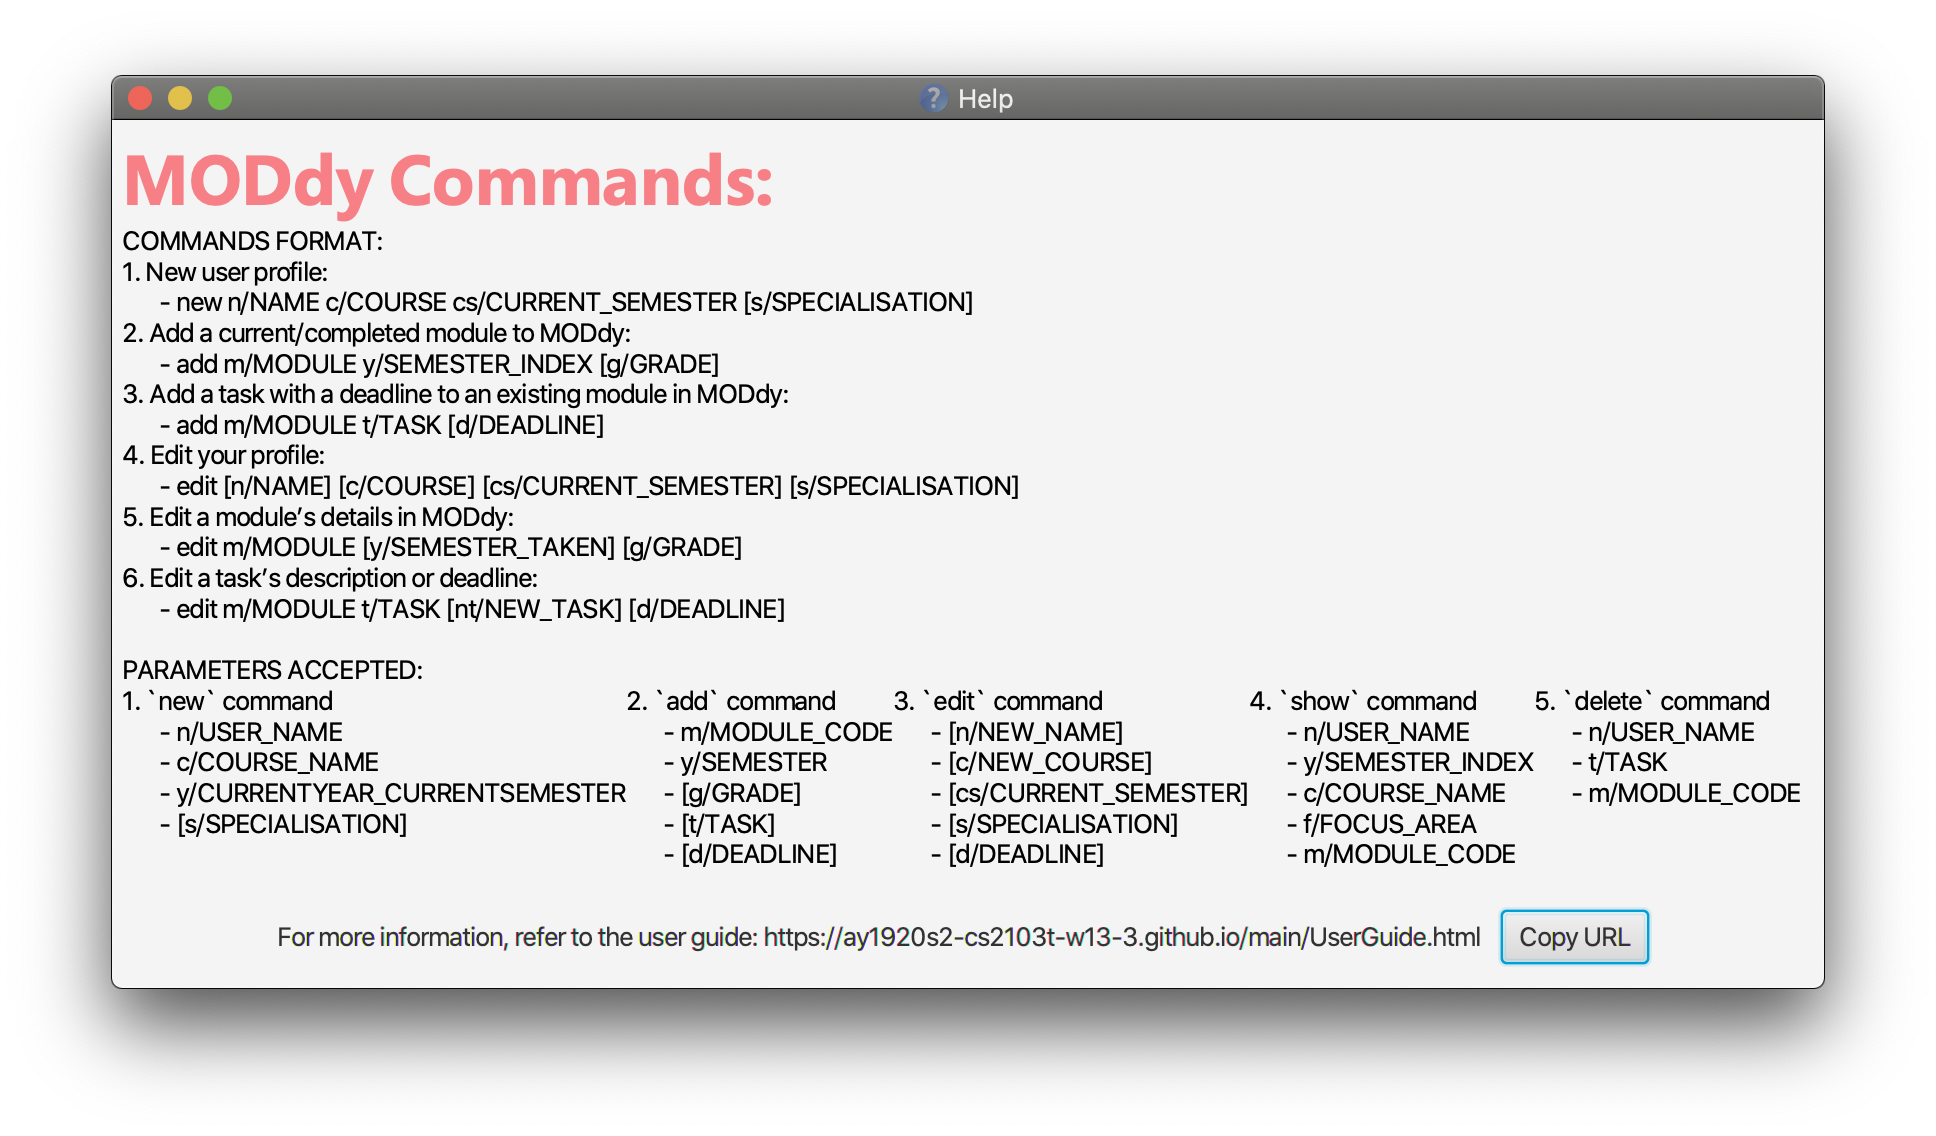
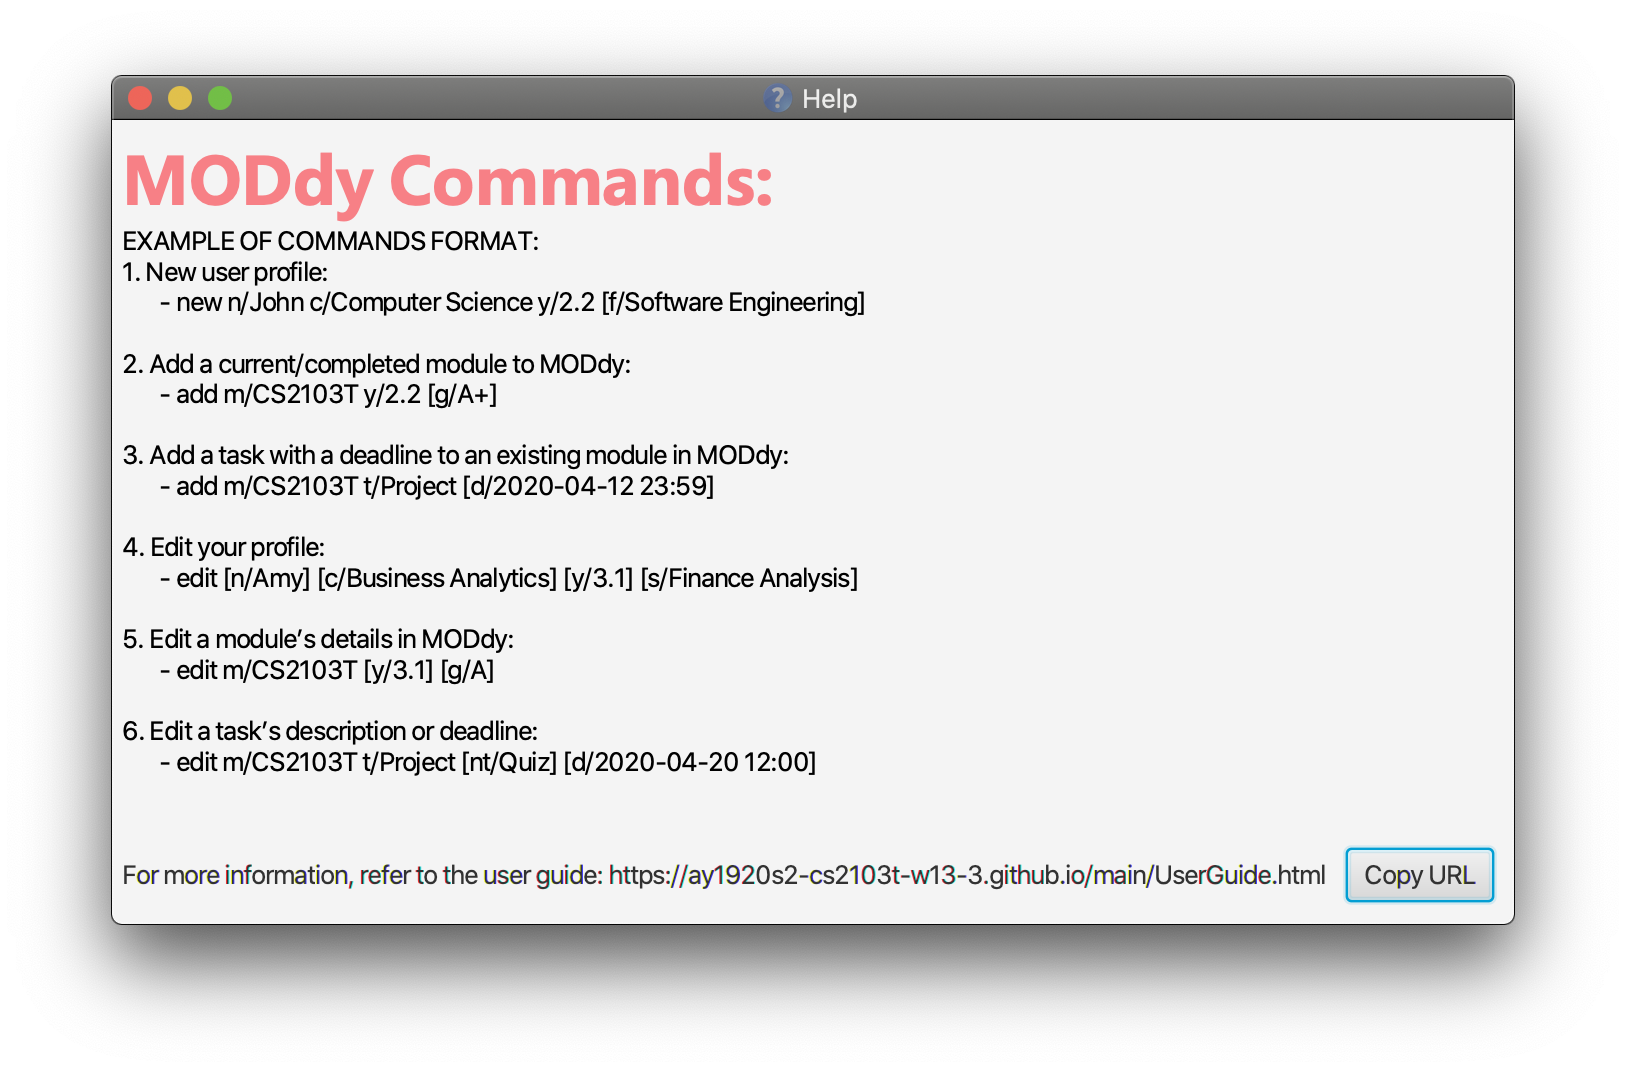
Rebuild pages at 23c5ab56c59fdf802141bf2fcf8ff11697641fca

Changed region(s): [[0.0308, 0.0616, 0.9533, 0.9235]]

diff --git a/DeveloperGuide.html b/DeveloperGuide.html
@@ -29,8 +29,9 @@
 <li><a href="#show-feature">4.4. Show Feature</a></li>
 <li><a href="#edit-profile-module-feature">4.5. Edit Profile / Module Feature</a></li>
 <li><a href="#delete-profile-module-deadline-grade-feature">4.6. Delete Profile / Module / Deadline / Grade Feature</a></li>
-<li><a href="#logging">4.7. Logging</a></li>
-<li><a href="#Implementation-Configuration">4.8. Configuration</a></li>
+<li><a href="#help-feature">4.7. Help Feature</a></li>
+<li><a href="#logging">4.8. Logging</a></li>
+<li><a href="#Implementation-Configuration">4.9. Configuration</a></li>
 </ul>
 </li>
 <li><a href="#documentation">5. Documentation</a></li>
@@ -225,13 +226,41 @@ The following class plays an important role at the architecture level:</p>
 <div class="title">Figure 4. Structure of the UI Component</div>
 </div>
 <div class="paragraph">
-<p><strong>API</strong> : <a href="https://github.com/AY1920S2-CS2103T-W13-3/main/src/main/java/seedu/address/ui/Ui.java"><code>Ui.java</code></a></p>
+<p><strong>API</strong> : <a href="https://github.com/AY1920S2-CS2103T-W13-3/main/blob/master/src/main/java/seedu/address/ui/Ui.java"><code>Ui.java</code></a></p>
 </div>
 <div class="paragraph">
-<p>The UI consists of a <code>MainWindow</code> that is made up of parts e.g.<code>CommandBox</code>, <code>ResultDisplay</code>, <code>ProfileListPanel</code>, <code>DeadlineListPanel</code>, <code>StatusBarFooter</code> etc. All these, including the <code>MainWindow</code>, inherit from the abstract <code>UiPart</code> class.</p>
+<p>The UI consists of a <code>MainWindow</code> that is made up of parts namely <code>CommandBox</code>, <code>ResultDisplay</code>, <code>ProfileListPanel</code>, <code>DeadlineListPanel</code>,
+ <code>CoursePanel</code>, <code>FocusAreaPanel</code>, <code>IndividualModulePanel</code>, <code>OverviewPanel</code>, <code>ModuleListPanel</code>, <code>WelcomeView</code>, <code>HelpWindow</code> and <code>StatusBarFooter</code>.
+All these, including the <code>MainWindow</code>, inherit from the abstract <code>UiPart</code> class.</p>
 </div>
 <div class="paragraph">
-<p>The <code>UI</code> component uses JavaFx UI framework. The layout of these UI parts are defined in matching <code>.fxml</code> files that are in the <code>src/main/resources/view</code> folder. For example, the layout of the <a href="https://github.com/AY1920S2-CS2103T-W13-3/main/src/main/java/seedu/address/ui/MainWindow.java"><code>MainWindow</code></a> is specified in <a href="https://github.com/AY1920S2-CS2103T-W13-3/main/src/main/resources/view/MainWindow.fxml"><code>MainWindow.fxml</code></a></p>
+<p>The following panels are made up of one or more parts. For example,</p>
+</div>
+<div class="ulist">
+<ul>
+<li>
+<p><code>ProfileListPanel</code> consists of <code>ProfileCard</code>,</p>
+</li>
+<li>
+<p><code>DeadlinePanel</code> consists of <code>DeadlineCard</code>,</p>
+</li>
+<li>
+<p><code>OverviewPanel</code> consists of <code>ProfileCard</code> and <code>OverviewModuleCard</code>,</p>
+</li>
+<li>
+<p><code>ModuleListPanel</code> consists of <code>ModuleCard</code>,</p>
+</li>
+<li>
+<p><code>FocusAreaPanel</code> consists of <code>ModuleCard</code>,</p>
+</li>
+<li>
+<p><code>CoursePanel</code> consists of <code>CourseFocusAreaCard</code> and <code>CourseRequirementCard</code>.</p>
+</li>
+</ul>
+</div>
+<div class="paragraph">
+<p>The <code>UI</code> component uses JavaFx UI framework. The layout of these UI parts are defined in matching <code>.fxml</code> files that
+are in the <code>src/main/resources/view</code> folder. For example, the layout of the <a href="https://github.com/AY1920S2-CS2103T-W13-3/main/blob/master/src/main/java/seedu/address/ui/MainWindow.java"><code>MainWindow</code></a> is specified in <a href="https://github.com/AY1920S2-CS2103T-W13-3/main/blob/master/src/main/resources/view/MainWindow.fxml"><code>MainWindow.fxml</code></a></p>
 </div>
 <div class="paragraph">
 <p>The <code>UI</code> component,</p>
@@ -896,14 +925,27 @@ If more than accepted tag is given, such as <code>show c/Computer Science m/CS11
 </div>
 </div>
 <div class="sect2">
-<h3 id="logging"><a class="link" href="#logging">4.7. Logging</a></h3>
+<h3 id="help-feature"><a class="link" href="#help-feature">4.7. Help Feature</a></h3>
+<div class="paragraph">
+<p>The <code>help</code> feature allows the user to view the pop-up help window with the command <code>help</code>. This feature allows the user to have a
+quick view of sample inputs if they run into trouble while using the application.</p>
+</div>
+<div class="sect3">
+<h4 id="current-implementations-6"><a class="link" href="#current-implementations-6">4.7.1. Current Implementations</a></h4>
+<div class="paragraph">
+<p><code>HelpCommand</code> extends from the <code>Command</code> class and uses the inheritance to facilitate the implementation.</p>
+</div>
+</div>
+</div>
+<div class="sect2">
+<h3 id="logging"><a class="link" href="#logging">4.8. Logging</a></h3>
 <div class="paragraph">
 <p>We are using <code>java.util.logging</code> package for logging. The <code>LogsCenter</code> class is used to manage the logging levels and logging destinations.</p>
 </div>
 <div class="ulist">
 <ul>
 <li>
-<p>The logging level can be controlled using the <code>logLevel</code> setting in the configuration file (See <a href="#Implementation-Configuration">Section 4.8, &#8220;Configuration&#8221;</a>)</p>
+<p>The logging level can be controlled using the <code>logLevel</code> setting in the configuration file (See <a href="#Implementation-Configuration">Section 4.9, &#8220;Configuration&#8221;</a>)</p>
 </li>
 <li>
 <p>The <code>Logger</code> for a class can be obtained using <code>LogsCenter.getLogger(Class)</code> which will log messages according to the specified logging level</p>
@@ -934,7 +976,7 @@ If more than accepted tag is given, such as <code>show c/Computer Science m/CS11
 </div>
 </div>
 <div class="sect2">
-<h3 id="Implementation-Configuration"><a class="link" href="#Implementation-Configuration">4.8. Configuration</a></h3>
+<h3 id="Implementation-Configuration"><a class="link" href="#Implementation-Configuration">4.9. Configuration</a></h3>
 <div class="paragraph">
 <p>Certain properties of the application can be controlled (e.g user prefs file location, logging level) through the configuration file (default: <code>config.json</code>).</p>
 </div>
@@ -2052,4 +2094,4 @@ Expected: Shows the GUI with a Quick Start page.</p>
 </div>
 </div>
 </div>
-</div></div><div id="footer"><div class="container"><div id="footer-text">Last updated 2020-04-11 19:58:30 UTC</div></div></div></body></html>
+</div></div><div id="footer"><div class="container"><div id="footer-text">Last updated 2020-04-12 09:32:58 UTC</div></div></div></body></html>

diff --git a/team/jadetayy.html b/team/jadetayy.html
@@ -1,7 +1,7 @@
 <!DOCTYPE html><html lang="en"><head><meta charset="UTF-8"><!--[if IE]><meta http-equiv="X-UA-Compatible" content="IE=edge"><![endif]--><meta name="viewport" content="width=device-width, initial-scale=1.0"><meta name="generator" content="Asciidoctor 1.5.6.1"><title>Jade Tay - Project Portfolio</title><link rel="stylesheet" href="../stylesheets/gh-pages.css">
 <link rel="stylesheet" href="https://cdnjs.cloudflare.com/ajax/libs/font-awesome/4.5.0/css/font-awesome.min.css">
 <link rel="stylesheet" href="../stylesheets/coderay-asciidoctor.css"></head><body class="article"><div id="site-header"><nav class="navbar navbar-light bg-light"><div class="container"><a class="navbar-brand" href="../index.html">MODdy</a><ul class="navbar-nav"><li class="nav-item"><a class="nav-link" href="../UserGuide.html">User Guide</a></li><li class="nav-item"><a class="nav-link" href="../DeveloperGuide.html">Developer Guide</a></li><li class="nav-item"><a class="nav-link active" href="../AboutUs.html">About Us</a></li><li class="nav-item"><a class="nav-link" href="../ContactUs.html">Contact Us</a></li><li class="navitem"><a class="nav-link" href="https://github.com/AY1920S2-CS2103T-W13-3/main"><span class="fa fa-github fa-lg" aria-hidden="true"></span>&nbsp;View on GitHub</a></li></ul></div></nav></div><div id="header"><h1>Jade Tay - Project Portfolio</h1></div><div id="content"><div class="sect1">
-<h2 id="project-addressbook-level-3"><a class="link" href="#project-addressbook-level-3">PROJECT: AddressBook - Level 3</a></h2>
+<h2 id="project-moddy"><a class="link" href="#project-moddy">PROJECT: MODdy</a></h2>
 <div class="sectionbody">
 <hr>
 </div>
@@ -10,7 +10,7 @@
 <h2 id="overview"><a class="link" href="#overview">Overview</a></h2>
 <div class="sectionbody">
 <div class="paragraph">
-<p>AddressBook - Level 3 is a desktop address book application used for teaching Software Engineering principles. The user interacts with it using a CLI, and it has a GUI created with JavaFX. It is written in Java, and has about 10 kLoC.</p>
+<p>MODdy is a desktop application used by NUS Computing students to track their course progression, manage modules and manage deadlines. The user interacts with it using a CLI, and it has a GUI created with JavaFX. It is written in Java, and has about 10 kLoC.</p>
 </div>
 </div>
 </div>
@@ -20,7 +20,7 @@
 <div class="ulist">
 <ul>
 <li>
-<p><strong>Major enhancement</strong>: added <strong>the ability to undo/redo previous commands</strong></p>
+<p><strong>Major enhancement</strong>: developed the whole <strong>User Interface and User Experience (UI/UX)</strong> for MODdy</p>
 <div class="ulist">
 <ul>
 <li>
@@ -53,7 +53,7 @@
 <div class="ulist">
 <ul>
 <li>
-<p>Managed releases <code>v1.3</code> - <code>v1.5rc</code> (3 releases) on GitHub</p>
+<p>Managed releases <code>v1.1</code> - <code>v1.4</code> (4 releases) on GitHub</p>
 </li>
 </ul>
 </div>
@@ -75,6 +75,12 @@
 <p>Documentation:</p>
 <div class="ulist">
 <ul>
+<li>
+<p>Updated the README.adoc such that it correspond to our project: <a href="https://github.com/AY1920S2-CS2103T-W13-3/main/pull/16">#16</a></p>
+</li>
+<li>
+<p>Contributed to <code>home</code> and <code>help</code> command documentation in our User Guide: <a href="https://github.com/AY1920S2-CS2103T-W13-3/main/pull/16">#16</a></p>
+</li>
 <li>
 <p>Did cosmetic tweaks to existing contents of the User Guide: <a href="https://github.com">#14</a></p>
 </li>
@@ -105,10 +111,7 @@
 <div class="ulist">
 <ul>
 <li>
-<p>Integrated a third party library (Natty) to the project (<a href="https://github.com">#42</a>)</p>
-</li>
-<li>
-<p>Integrated a new Github plugin (CircleCI) to the team repo</p>
+<p>Integrated three new Github plugin (AppVeyor, Coveralls and Netlify) to the team repo and added the respective badges to link to the repo (Pull requests <a href="https://github.com/AY1920S2-CS2103T-W13-3/main/pull/16">#16</a>, <a href="https://github.com/AY1920S2-CS2103T-W13-3/main/pull/18">#18</a>)</p>
 </li>
 </ul>
 </div>
@@ -276,4 +279,4 @@ Your profile, including all modules, grades and deadlines under your name, will 
 <p><em>{Optionally, you may include other projects in your portfolio.}</em></p>
 </div>
 </div>
-</div></div><div id="footer"><div class="container"><div id="footer-text">Last updated 2020-04-11 19:58:30 UTC</div></div></div></body></html>
+</div></div><div id="footer"><div class="container"><div id="footer-text">Last updated 2020-04-12 09:32:58 UTC</div></div></div></body></html>

diff --git a/UserGuide.html b/UserGuide.html
@@ -213,7 +213,7 @@ e.g. typing <strong><code>help</code></strong> and pressing <kbd>Enter</kbd> wil
 <div class="sect2">
 <h3 id="Help"><a class="link" href="#Help">4.1. Viewing help : <code>help</code></a></h3>
 <div class="paragraph">
-<p>If you are unsure about the commands and wants to seek help, this command opens up a help window. There are basic command format as well as the respective parameter.
+<p>If you are unsure about the commands and want to seek help, this command opens up a help window where there are examples for basic command format.
 For more detailed help, you can visit the link provided, as shown in the figure below. The link directs you to this User Guide where you can get more information on how to use each feature in <strong>MODdy</strong>.<br></p>
 </div>
 <div class="paragraph">
@@ -805,7 +805,7 @@ Your profile, including all modules, grades and deadlines under your name, will 
 <div class="sect2">
 <h3 id="Clear"><a class="link" href="#Clear">4.8. Resetting <strong>MODdy</strong>: <code>clear</code></a></h3>
 <div class="paragraph">
-<p>This command clears all entries from <strong>MODdy</strong> including your profile and its data, as shown in the figure below.</p>
+<p>If you want to clear your profile and data from <strong>MODdy</strong>, use this command. It clears all entries from <strong>MODdy</strong>, as shown in the figure below.</p>
 </div>
 <div class="paragraph">
 <p>Format: <code>clear</code></p>
@@ -1016,4 +1016,4 @@ e.g. <code>delete m/CS2107</code>, <code>delete m/CS2103 t/Project Submission</c
 </ol>
 </div>
 </div>
-</div></div><div id="footer"><div class="container"><div id="footer-text">Last updated 2020-04-11 19:58:30 UTC</div></div></div></body></html>
+</div></div><div id="footer"><div class="container"><div id="footer-text">Last updated 2020-04-12 09:32:58 UTC</div></div></div></body></html>

diff --git a/tutorials/RemovingFields.html b/tutorials/RemovingFields.html
@@ -175,4 +175,4 @@ While keeping the <code>address</code> field in the json files does not cause th
 <p>You can go through each individual <code>json</code> file and manually remove the <code>address</code> field.</p>
 </div>
 </div>
-</div></div><div id="footer"><div class="container"><div id="footer-text">Last updated 2020-04-11 19:58:30 UTC</div></div></div></body></html>
+</div></div><div id="footer"><div class="container"><div id="footer-text">Last updated 2020-04-12 09:32:58 UTC</div></div></div></body></html>

diff --git a/Testing.html b/Testing.html
@@ -90,4 +90,4 @@ e.g. <code>seedu.address.logic.LogicManagerTest</code></p>
 <div class="title">Figure 1. <code>Accessibility</code> permission is granted to <code>IntelliJ IDEA</code></div>
 </div>
 </div>
-</div></div><div id="footer"><div class="container"><div id="footer-text">Last updated 2020-04-11 19:58:30 UTC</div></div></div></body></html>
+</div></div><div id="footer"><div class="container"><div id="footer-text">Last updated 2020-04-12 09:32:58 UTC</div></div></div></body></html>

diff --git a/tutorials/AddRemark.html b/tutorials/AddRemark.html
@@ -616,4 +616,4 @@ In this case, <code>CommandTestUtil#assertCommandSuccess</code> is the best fit 
 <p>This concludes the tutorial for adding a new <code>Command</code> to AddressBook.</p>
 </div>
 </div>
-</div></div><div id="footer"><div class="container"><div id="footer-text">Last updated 2020-04-11 19:58:30 UTC</div></div></div></body></html>
+</div></div><div id="footer"><div class="container"><div id="footer-text">Last updated 2020-04-12 09:32:58 UTC</div></div></div></body></html>

diff --git a/team/wanxuanong.html b/team/wanxuanong.html
@@ -276,4 +276,4 @@ Your profile, including all modules, grades and deadlines under your name, will 
 <p><em>{Optionally, you may include other projects in your portfolio.}</em></p>
 </div>
 </div>
-</div></div><div id="footer"><div class="container"><div id="footer-text">Last updated 2020-04-11 19:58:30 UTC</div></div></div></body></html>
+</div></div><div id="footer"><div class="container"><div id="footer-text">Last updated 2020-04-12 09:32:58 UTC</div></div></div></body></html>

diff --git a/team/gyant6.html b/team/gyant6.html
@@ -483,4 +483,4 @@ MODdy will remind you that you can only display one object at a time.
 <p><em>{Optionally, you may include other projects in your portfolio.}</em></p>
 </div>
 </div>
-</div></div><div id="footer"><div class="container"><div id="footer-text">Last updated 2020-04-11 19:58:30 UTC</div></div></div></body></html>
+</div></div><div id="footer"><div class="container"><div id="footer-text">Last updated 2020-04-12 09:32:58 UTC</div></div></div></body></html>

diff --git a/team/chanckben.html b/team/chanckben.html
@@ -457,4 +457,4 @@ Your profile, including all modules, grades and deadlines under your name, will 
 </tbody>
 </table>
 </div>
-</div></div><div id="footer"><div class="container"><div id="footer-text">Last updated 2020-04-11 19:58:30 UTC</div></div></div></body></html>
+</div></div><div id="footer"><div class="container"><div id="footer-text">Last updated 2020-04-12 09:32:58 UTC</div></div></div></body></html>

diff --git a/LearningOutcomes.html b/LearningOutcomes.html
@@ -474,4 +474,4 @@ of storages, but different number of storages (e.g. save to both a text file and
 </div>
 </div>
 </div>
-</div></div><div id="footer"><div class="container"><div id="footer-text">Last updated 2020-04-11 19:58:30 UTC</div></div></div></body></html>
+</div></div><div id="footer"><div class="container"><div id="footer-text">Last updated 2020-04-12 09:32:58 UTC</div></div></div></body></html>

diff --git a/SettingUp.html b/SettingUp.html
@@ -180,4 +180,4 @@ Having both Travis and AppVeyor ensures your App works on both Unix-based platfo
 </div>
 </div>
 </div>
-</div></div><div id="footer"><div class="container"><div id="footer-text">Last updated 2020-04-11 19:58:30 UTC</div></div></div></body></html>
+</div></div><div id="footer"><div class="container"><div id="footer-text">Last updated 2020-04-12 09:32:58 UTC</div></div></div></body></html>

diff --git a/team/joycelynteo.html b/team/joycelynteo.html
@@ -492,4 +492,4 @@ The lifeline for <code>DeleteCommandParser</code> should end at the destroy mark
 </div>
 </div>
 </div>
-</div></div><div id="footer"><div class="container"><div id="footer-text">Last updated 2020-04-11 19:58:30 UTC</div></div></div></body></html>
+</div></div><div id="footer"><div class="container"><div id="footer-text">Last updated 2020-04-12 09:32:58 UTC</div></div></div></body></html>
